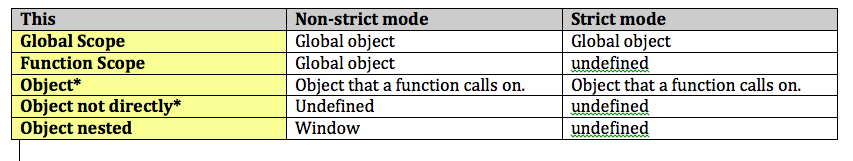
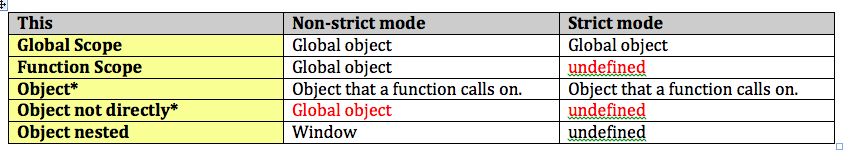
updated Read me file

diff --git a/14_this.md b/14_this.md
@@ -144,4 +144,24 @@ person.getName();
 ```
 ## Summary
 
-![this](http://www.hirokoymj.com/images/JavaScript-this.png)
+![this](http://www.hirokoymj.com/images/JavaScript-this_updated.png)
+
+
+```js
+var fullname = 'John Doe';
+var obj = {
+   fullname: 'Colin Ihrig',
+   prop: {
+      fullname: 'Aurelio De Rosa',
+      getFullname: function() {
+         return this.fullname;
+      }
+   }
+};
+
+console.log(obj.prop.getFullname());// Aurelio De Rosa
+
+var test = obj.prop.getFullname; 
+
+console.log(test()); //John Doe
+```
